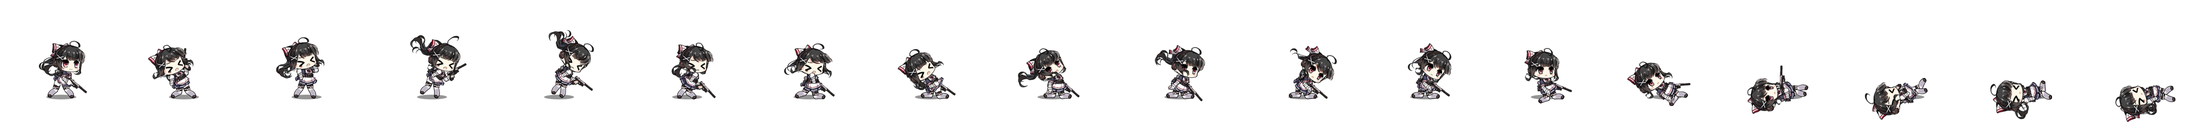
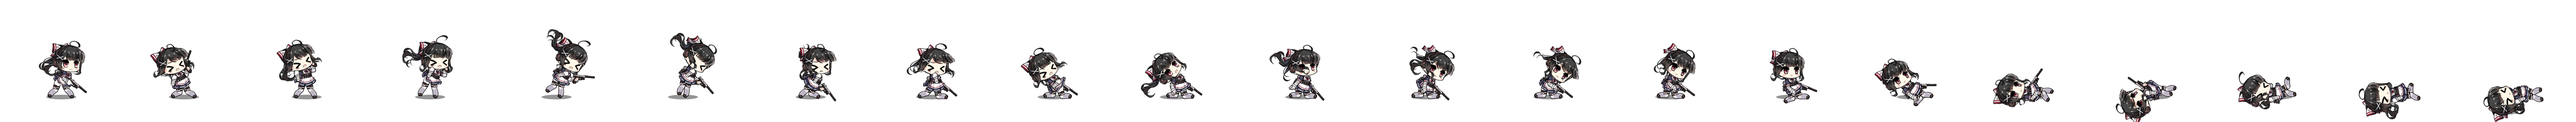
사망 최종 구현

Changed region(s): [[0.0, 0.2647, 0.6554, 0.8235], [0.6866, 0.4118, 0.9987, 1.0]]

diff --git a/Drill #Project.py b/Drill #Project.py
@@ -151,15 +151,15 @@ class Draw_Character:
                     if self.temp % 3 == 0:
                         if position == 0:
                             self.framex = (self.framex + 1) % 18
-                            self.image = self.images["die_shotgun"]  # 샷건 사망
+                            self.image = self.images["die_shotgun"]    # 샷건 사망
                         elif position == 1:
                             self.framex = (self.framex + 1) % 18
-                            self.image = self.images["die_rifle"]  # 라이플 사망
+                            self.image = self.images["die_rifle"]      # 라이플 사망
             else:
-                if die_time > 48:
-                    if self.temp % 4 == 0:
-                        self.framex = (self.framex + 1) % 18
-                        self.image = self.images["die_handgun"]  # 핸드건 사망
+                if die_time > 15:
+                    if self.temp % 5 == 0:
+                        self.framex = (self.framex + 1) % 21
+                        self.image = self.images["die_handgun"]        # 핸드건 사망
 
         elif Reload:
             if reload_time == 80:
@@ -274,6 +274,7 @@ class Draw_Character:
                 hit_delay -= 1
             elif hit_delay == 1:
                 hit_delay = 0
+                Hit = False
 
 
         if Reload:
@@ -714,7 +715,7 @@ def handle_events():
 
             # t 누를시 hp - 4
             elif event.type == SDL_KEYDOWN and event.key == SDLK_t:
-                character.take_damage(4)
+                character.take_damage(8)
 
             # y 누를시 hp + 1
             elif event.type == SDL_KEYDOWN and event.key == SDLK_y:
